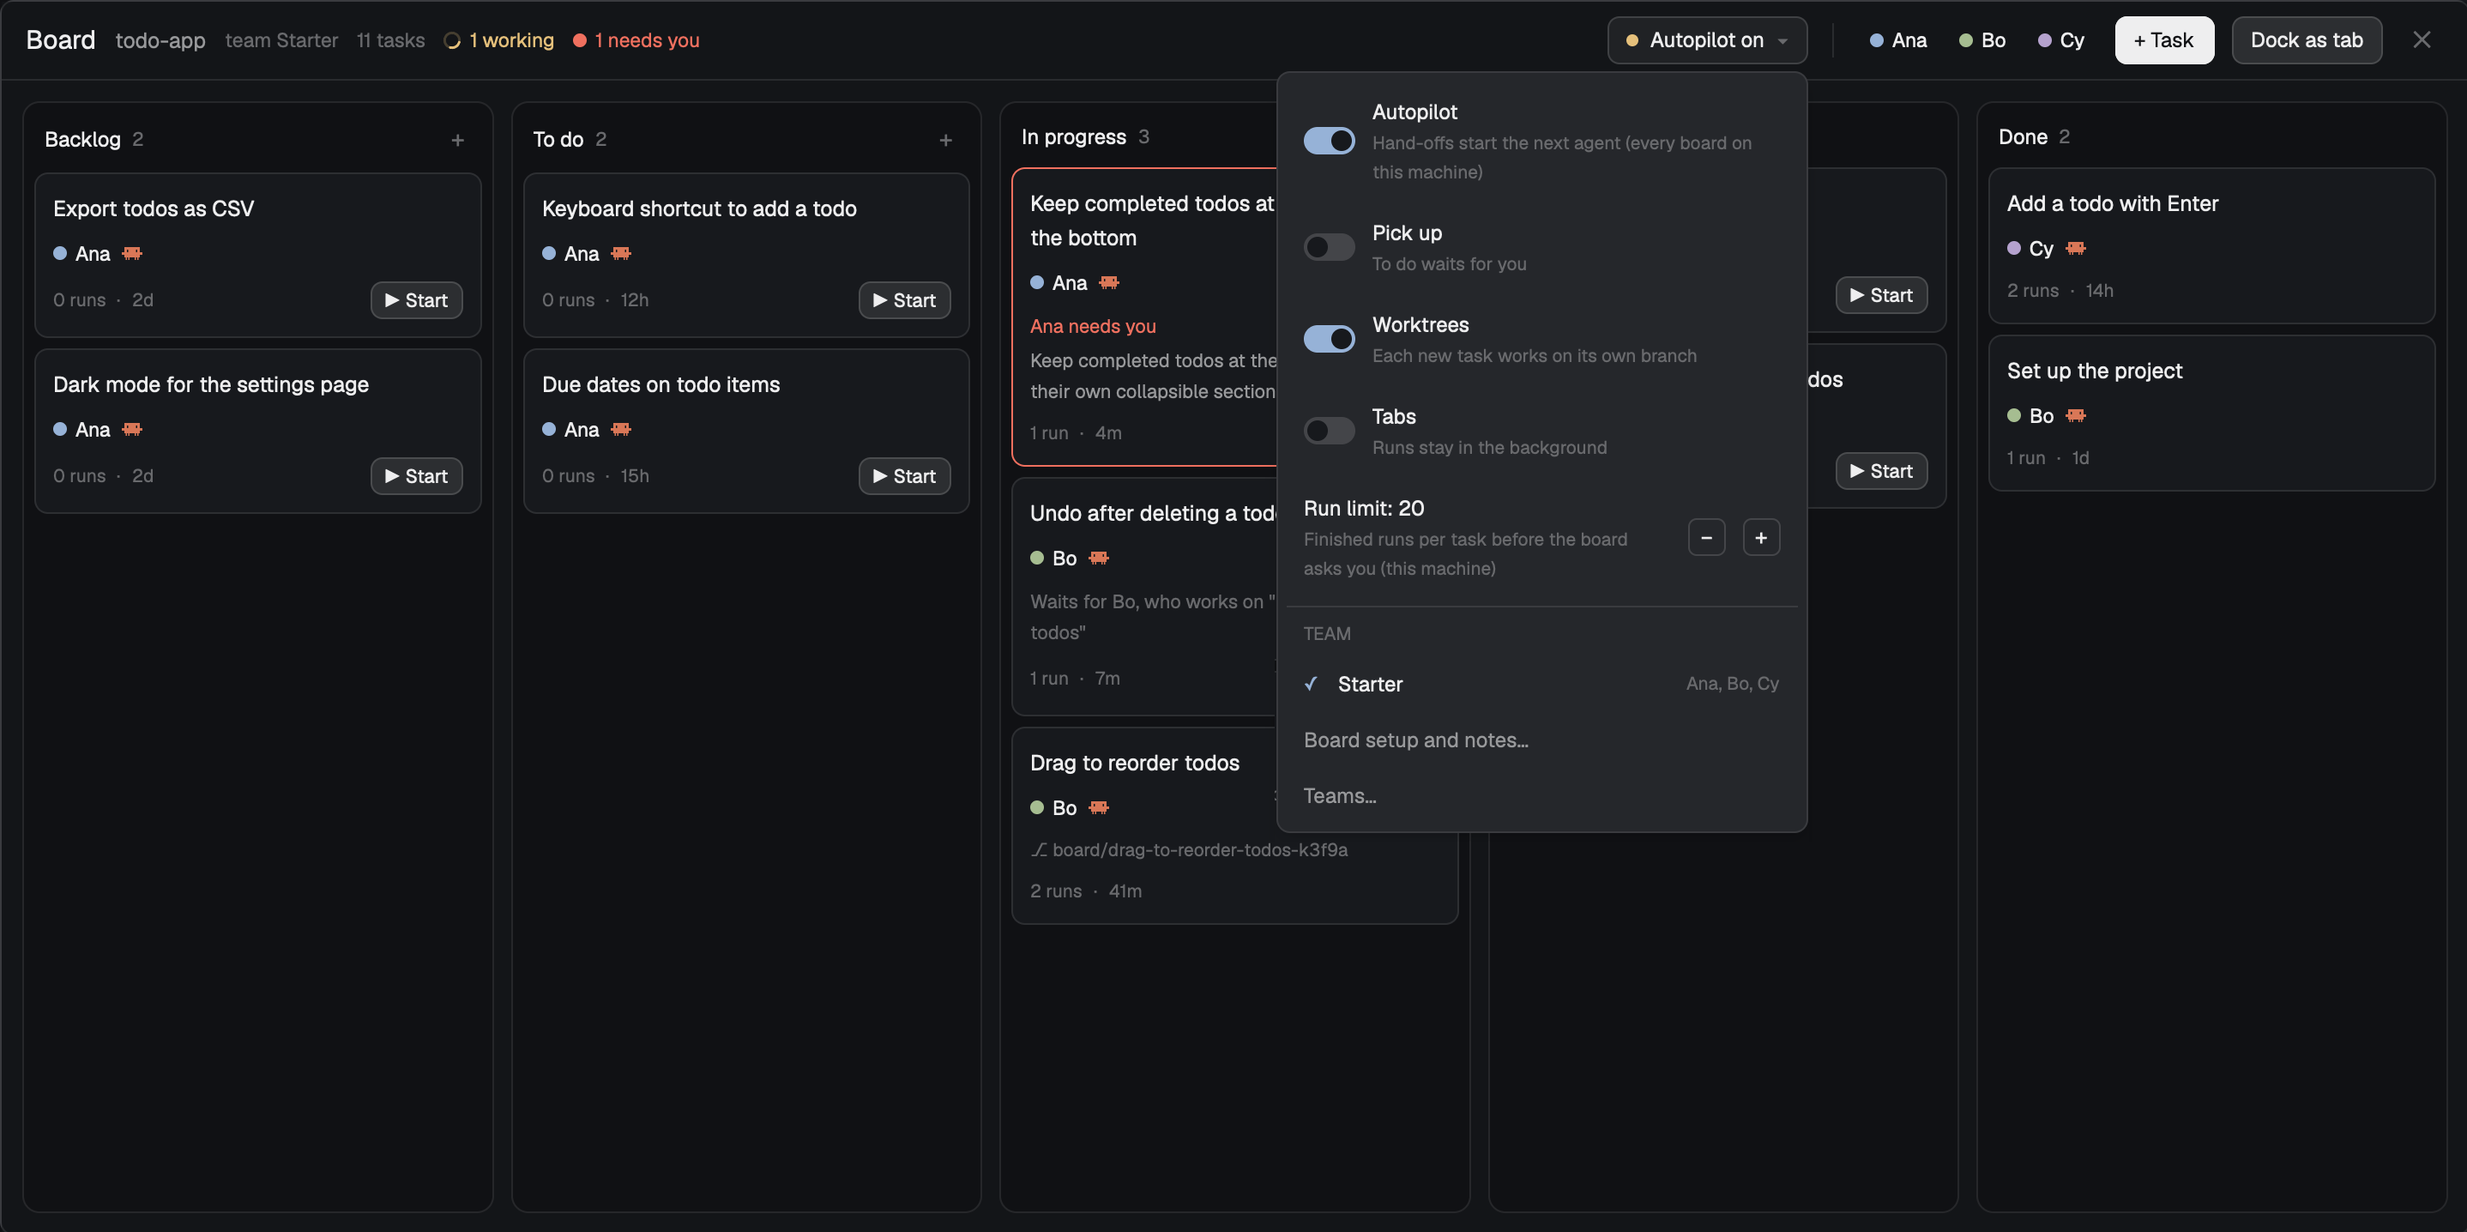
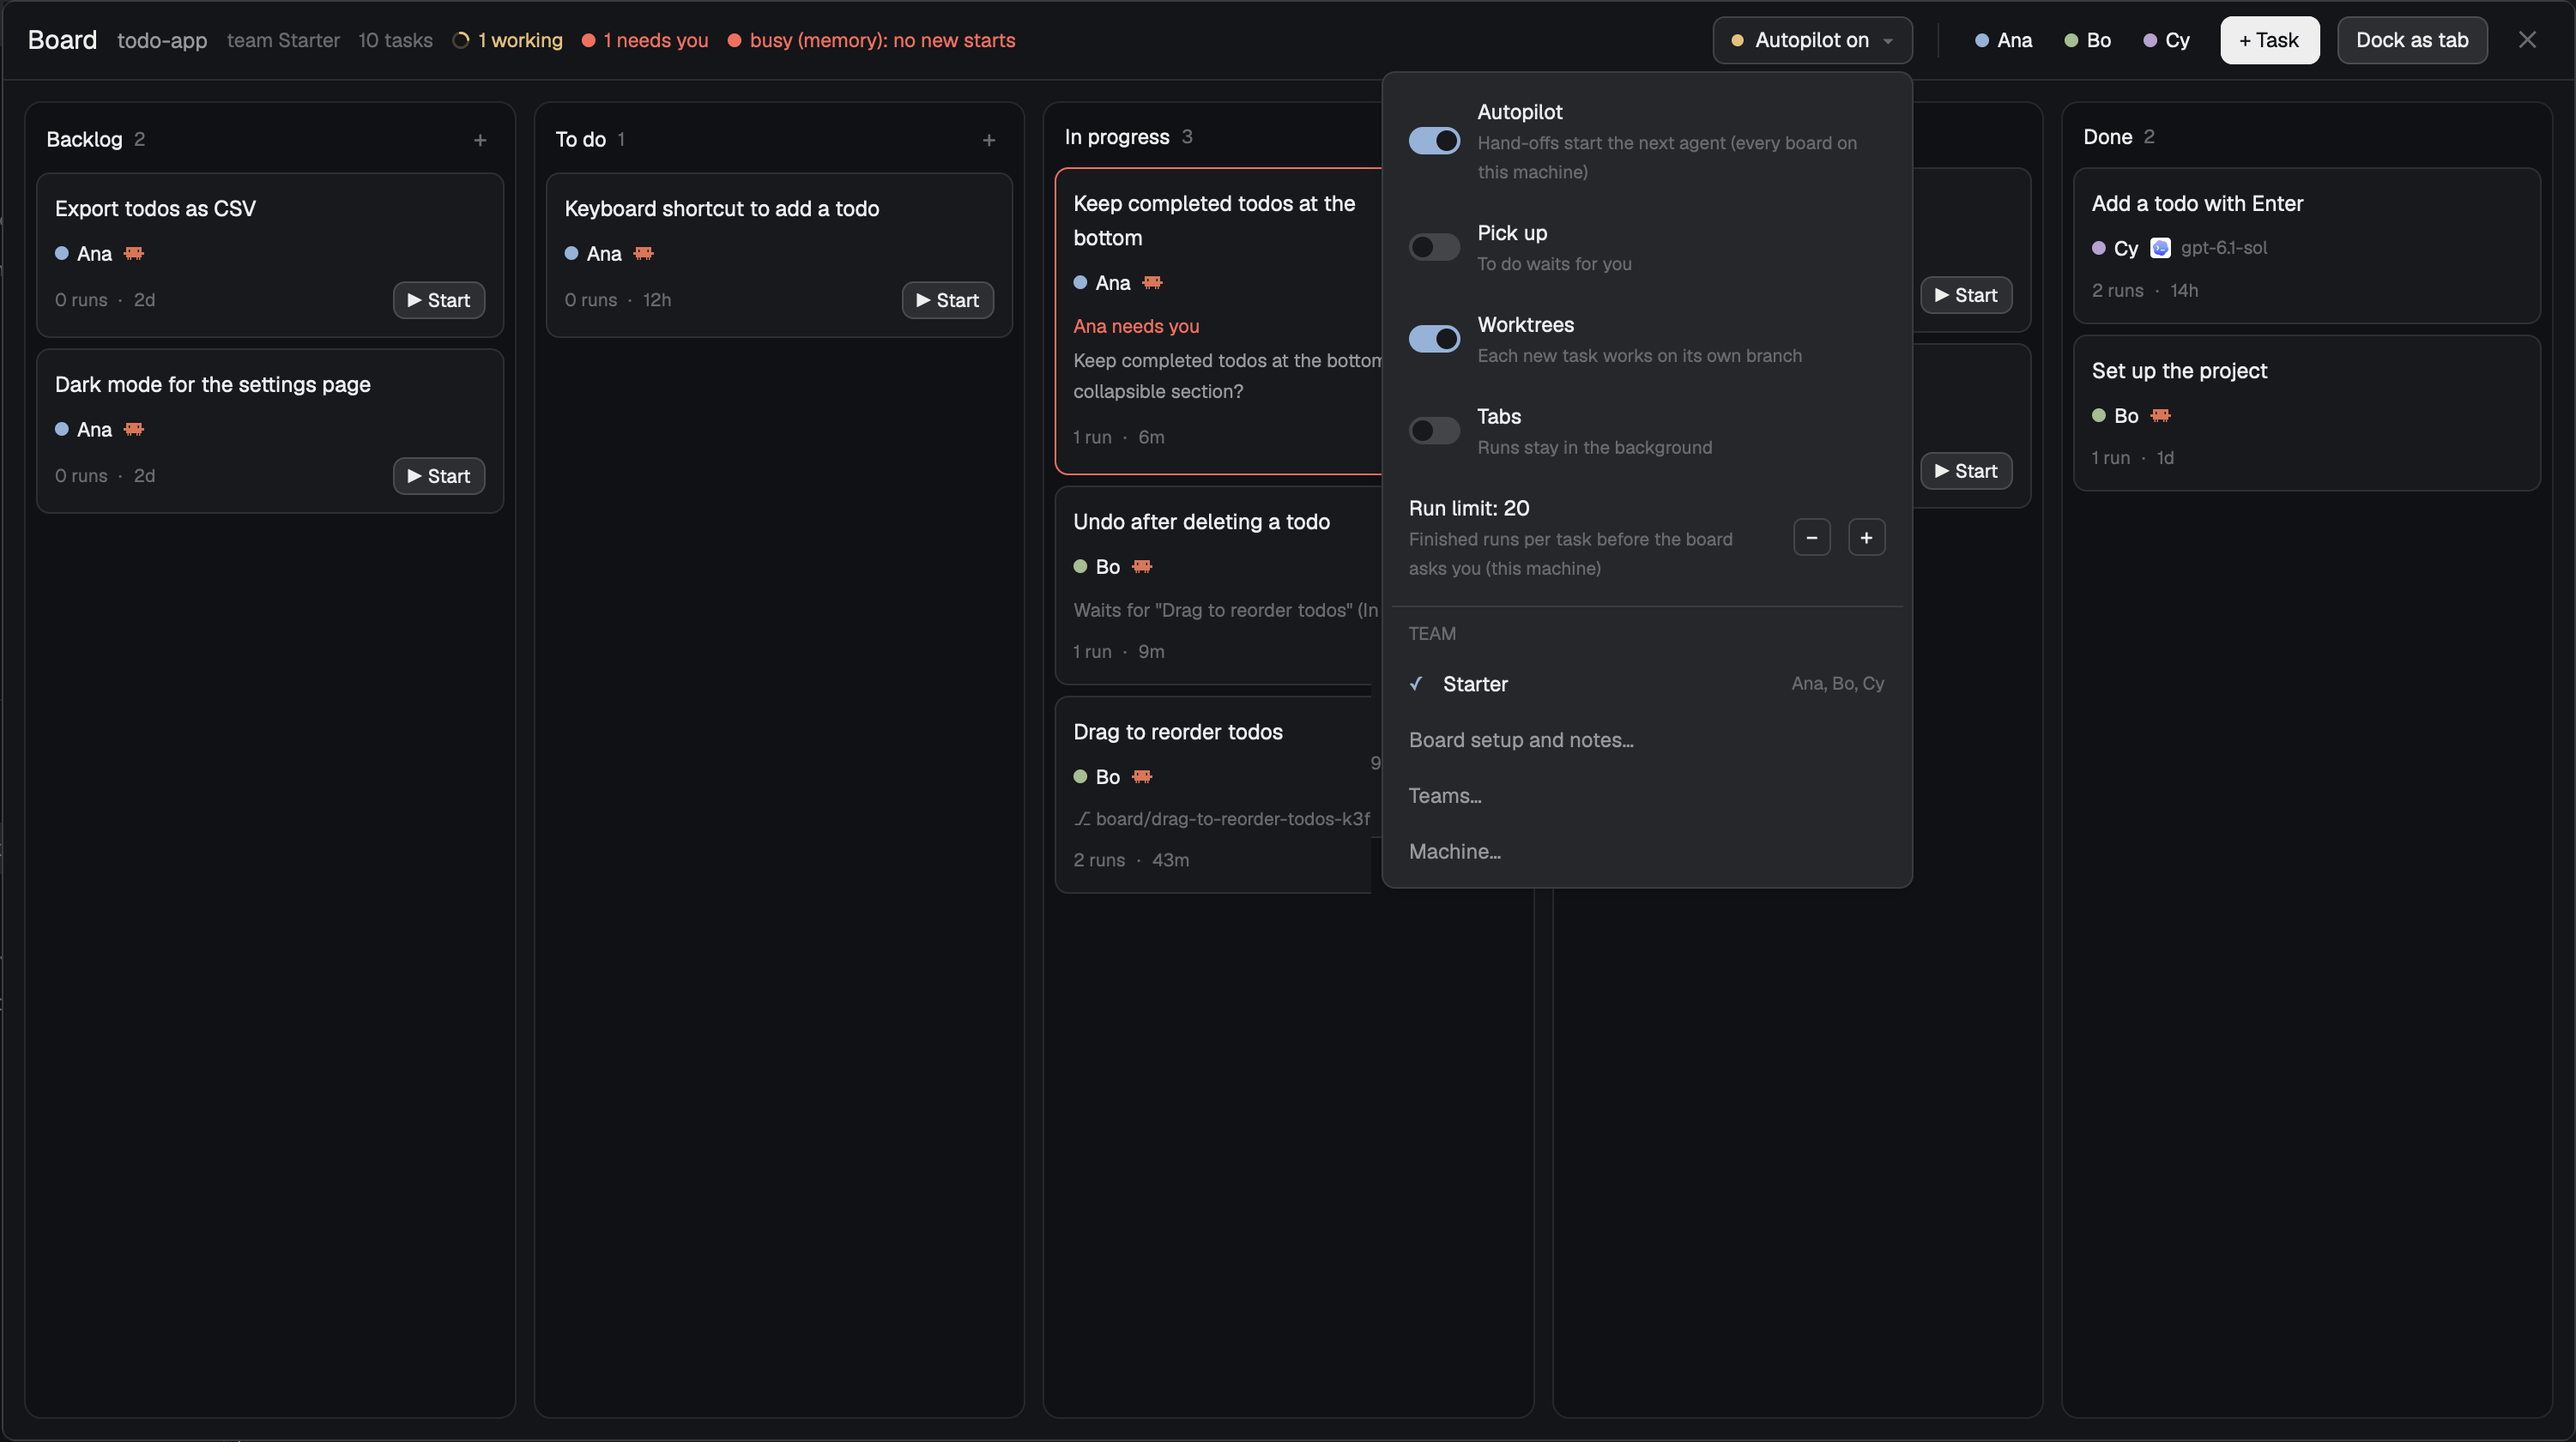
New screenshots: dependencies, Unblock, pull requests, the Machine window, a Codex member
All from a throwaway demo board.

diff --git a/README.md b/README.md
@@ -9,9 +9,11 @@ A kanban board for coding agents in the [Herdr](https://herdr.dev) app. Each rep
 | | |
 |---|---|
 | ![The board](screenshots/board.png) | ![The settings menu](screenshots/settings-menu.png) |
-| The board: a working task, a task that needs you, and a hand-off waiting for a busy member | The settings menu: Autopilot, Pick up, Worktrees, Tabs, the run limit and the board's team |
-| ![A task](screenshots/task.png) | ![Teams and secrets](screenshots/teams-secrets.png) |
-| A task: its description, runs, worktree and history | The Teams window: a member, and a secret that is set |
+| The board: a task that needs you (with Unblock ↗), one waiting for its dependencies, one working on its own branch, and a Codex reviewer | The settings menu: Autopilot, Pick up, Worktrees, Tabs, the run limit, the board's team, and the Teams and Machine windows |
+| ![A task](screenshots/task.png) | ![Teams with a Codex member](screenshots/teams.png) |
+| A task: its description, pull requests, dependencies, runs and history | The Teams window: a Codex member with its model, and a secret that is set |
+| ![The Machine window](screenshots/machine.png) | |
+| The Machine window: the last hour's load, memory and swap, the load gate, browser slots and the machine's settings | |
 
 ## Install
 
